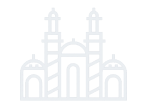
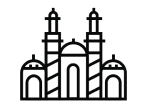
Changes Done

Changed region(s): [[0.1361, 0.0541, 0.8707, 0.9189]]

diff --git a/index.html b/index.html
@@ -24,7 +24,7 @@
    <section class="hero-banner">
     <div class="container">
         <div class="row">
-            <div class="col-lg-6">
+            <div class="col-lg-6 pad-top">
                 <h1>Rent a Car In Mumbai With Driver To Explore The City</h1>
                 <p>Choose from a wide choice of Rental cars at affordable rates. Book now to start exploring.</p>
                 <button><a href="">Book Now</a></button>
@@ -40,6 +40,23 @@
                             </div>
                             <div class="col-12">
                                 <input type="Number" placeholder="Number">
+                            </div>
+                            <div class="col-12">
+                                <input type="email" placeholder="Email">
+                            </div>
+                            <div class="col-12">
+                                <select class="form-select" aria-label="Default select example">
+                                    <option selected>Select Your City</option>
+                                    <option value="Goa">Goa</option>
+                                    <option value="Jaipur">Jaipur</option>
+                                    <option value="Mumbai">Mumbai</option>
+                                    <option value="Ahemdabad">Ahemdabad</option>
+                                    <option value="Pune">Pune</option>
+                                    <option value="Delhi">Delhi</option>
+                                  </select>
+                            </div>
+                            <div class="col-12">
+                                <textarea name="" id="" rows="7" placeholder="Enter Your Message"></textarea>
                             </div>
                             <div class="col-12">
                                 <button>Book Your Ride</button>
@@ -63,31 +80,102 @@
             </div>
             <div class="col-lg-2 col-6">
                 <div class="img-box">
-                    <img src="Images/gate-of-india.png" alt="">
+                    <svg xmlns="http://www.w3.org/2000/svg" width="83" height="83" viewBox="0 0 83 83" fill="none">
+                        <g clip-path="url(#clip0_1231_9805)">
+                          <path d="M50.8711 50.8708H53.5485V53.5483H50.8711V50.8708Z" fill="#333"/>
+                          <path d="M29.4512 50.8708H32.1286V53.5483H29.4512V50.8708Z" fill="#333"/>
+                          <path d="M83 34.8065V26.7742H64.2581V5.35484H61.5807V0H58.9032V5.35484H56.2258V16.0645H26.7742V5.35484H24.0968V0H21.4194V5.35484H18.7419V26.7742H0V34.8065H2.67742V38.8226H0V41.5H2.67742V45.5161H0V53.5484H2.67742V83H80.3226V53.5484H83V45.5161H80.3226V41.5H83V38.8226H80.3226V34.8065H83ZM80.3226 29.4516V32.129H64.2581V29.4516H80.3226ZM69.6129 56.2258V53.5484H72.2903V56.2258H69.6129ZM66.9355 56.2258H64.2581V53.5484H66.9355V56.2258ZM48.1936 80.3226H34.8065V67.8833C34.8065 63.0815 37.3538 58.7424 41.5 56.4023C45.6462 58.7424 48.1936 63.0815 48.1936 67.8833V80.3226ZM42.0981 53.6889L41.5 53.3902L40.9019 53.6902C35.4908 56.3945 32.129 61.8336 32.129 67.8833V80.3226H26.7742V48.1936H56.2258V80.3226H50.871V67.8833C50.871 61.8336 47.5092 56.3945 42.0981 53.6889ZM13.3871 53.5484V56.2258H10.7097V53.5484H13.3871ZM16.0645 53.5484H18.7419V56.2258H16.0645V53.5484ZM56.2258 45.5161H53.5484V40.1613H56.2258V45.5161ZM26.7742 40.1613H29.4516V45.5161H26.7742V40.1613ZM32.129 40.1613H34.8065V45.5161H32.129V40.1613ZM37.4839 40.1613H40.1613V45.5161H37.4839V40.1613ZM42.8387 40.1613H45.5161V45.5161H42.8387V40.1613ZM48.1936 40.1613H50.871V45.5161H48.1936V40.1613ZM56.2258 37.4839H26.7742V24.0968H56.2258V37.4839ZM24.0968 80.3226H21.4194V13.3871H24.0968V80.3226ZM61.5807 80.3226H58.9032V13.3871H61.5807V80.3226ZM61.5807 8.03226V10.7097H58.9032V8.03226H61.5807ZM56.2258 18.7419V21.4194H26.7742V18.7419H56.2258ZM24.0968 8.03226V10.7097H21.4194V8.03226H24.0968ZM2.67742 29.4516H18.7419V32.129H2.67742V29.4516ZM5.35484 34.8065H18.7419V45.5161H5.35484V34.8065ZM2.67742 48.1936H18.7419V50.871H2.67742V48.1936ZM8.03226 53.5484V56.2258H5.35484V53.5484H8.03226ZM5.35484 58.9032H18.7419V80.3226H16.0645V73.629C16.0645 71.4151 14.2624 69.6129 12.0484 69.6129C9.83442 69.6129 8.03226 71.4151 8.03226 73.629V80.3226H5.35484V58.9032ZM13.3871 80.3226H10.7097V73.629C10.7097 72.8917 11.3097 72.2903 12.0484 72.2903C12.787 72.2903 13.3871 72.8917 13.3871 73.629V80.3226ZM72.2903 80.3226H69.6129V73.629C69.6129 72.8917 70.213 72.2903 70.9516 72.2903C71.6903 72.2903 72.2903 72.8917 72.2903 73.629V80.3226ZM74.9678 80.3226V73.629C74.9678 71.4151 73.1656 69.6129 70.9516 69.6129C68.7376 69.6129 66.9355 71.4151 66.9355 73.629V80.3226H64.2581V58.9032H77.6452V80.3226H74.9678ZM77.6452 56.2258H74.9678V53.5484H77.6452V56.2258ZM80.3226 50.871H64.2581V48.1936H80.3226V50.871ZM77.6452 45.5161H64.2581V34.8065H77.6452V45.5161Z" fill="#333"/>
+                          <path d="M53.5479 34.8064V26.7742H29.4512V34.8064H53.5479ZM32.1286 29.4516H50.8705V32.129H32.1286V29.4516Z" fill="#333"/>
+                          <path d="M66.9355 38.8225H69.613V41.4999H66.9355V38.8225Z" fill="#333"/>
+                          <path d="M72.29 38.8225H74.9675V41.4999H72.29V38.8225Z" fill="#333"/>
+                          <path d="M8.03223 38.8225H10.7096V41.4999H8.03223V38.8225Z" fill="#333"/>
+                          <path d="M13.3867 38.8225H16.0641V41.4999H13.3867V38.8225Z" fill="#333"/>
+                        </g>
+                        <defs>
+                          <clipPath id="clip0_1231_9805">
+                            <rect width="83" height="83" fill="white"/>
+                          </clipPath>
+                        </defs>
+                      </svg>
                 </div>
                 <h3>Mumbai</h3>
             </div>
             <div class="col-lg-2 col-6">
                 <div class="img-box">
-                    <img src="Images/hawa-mahal.png" alt="">
+                    <svg xmlns="http://www.w3.org/2000/svg" width="76" height="76" viewBox="0 0 76 76" fill="none">
+                        <g clip-path="url(#clip0_1229_9904)">
+                          <path d="M74.8125 27.3125V24.9375C74.8125 24.6225 74.6874 24.3204 74.4647 24.0978L72.4375 22.0707V21.5678C72.4375 19.1058 71.0367 16.8983 68.875 15.8322V13.0625H66.5V15.8325C65.9169 16.1205 65.3846 16.4941 64.9191 16.9382C64.7073 16.7436 64.426 16.6268 64.1222 16.6251C64.0512 14.2412 62.6678 12.1202 60.5625 11.0822V8.3125H58.1875V11.082C56.0824 12.1202 54.6988 14.2411 54.6278 16.625H54.625V13.0625C54.625 12.4067 54.0933 11.875 53.4375 11.875H52.151C51.8774 10.2506 51.052 8.8111 49.875 7.75645V3.5625H47.5V6.34466C46.8454 6.11251 46.1471 5.97342 45.4211 5.94359C43.8722 4.00811 41.6308 2.75797 39.1875 2.44966V0H36.8125V2.44966C34.3692 2.75797 32.1278 4.00811 30.5789 5.94359C30.2765 5.95605 29.979 5.98752 29.6875 6.03666V3.5625H27.3125V6.89388C25.5115 7.93814 24.2073 9.74804 23.849 11.875H22.5625C21.9067 11.875 21.375 12.4067 21.375 13.0625V16.625H21.3722C21.3012 14.2411 19.9176 12.1202 17.8125 11.082V8.3125H15.4375V11.082C13.3324 12.1202 11.9488 14.2411 11.8778 16.625C11.574 16.6266 11.2927 16.7436 11.0809 16.9381C10.6154 16.4939 10.0831 16.1203 9.5 15.8323V13.0625H7.125V15.832C4.9633 16.8981 3.5625 19.1058 3.5625 21.5677V22.0706L1.53529 24.0978C1.31263 24.3204 1.1875 24.6225 1.1875 24.9375V27.3125C0.531703 27.3125 0 27.8442 0 28.5V74.8125C0 75.4683 0.531703 76 1.1875 76H74.8125C75.4683 76 76 75.4683 76 74.8125V28.5C76 27.8442 75.4683 27.3125 74.8125 27.3125ZM70.7582 23.75L72.4375 25.4293V27.3125H67.4736L66.7611 23.75H70.7582ZM67.6877 17.8979C69.0653 18.5149 69.9858 19.8551 70.0579 21.375H66.1286L65.7615 19.7205C66.1795 18.9118 66.8585 18.2698 67.6877 17.8979ZM59.375 13.1479C60.7526 13.7649 61.6733 15.1051 61.7454 16.625H57.0046C57.0767 15.105 57.9974 13.7648 59.375 13.1479ZM63.1627 19L65.0069 27.3125H54.6287L54.6254 19H63.1627ZM23.75 14.25H24.9375C25.5933 14.25 26.125 13.7183 26.125 13.0625C26.125 10.4433 28.2558 8.3125 30.875 8.3125C30.9552 8.3125 31.0347 8.31458 31.1138 8.31844C31.5249 8.33818 31.9132 8.14684 32.147 7.81078C33.4808 5.89416 35.6688 4.75 38 4.75C40.3312 4.75 42.5192 5.89416 43.853 7.81078C44.087 8.14684 44.4777 8.33773 44.8862 8.31844C44.9653 8.31458 45.0448 8.3125 45.125 8.3125C47.7442 8.3125 49.875 10.4433 49.875 13.0625C49.875 13.7183 50.4067 14.25 51.0625 14.25H52.25V17.8423C51.4578 16.949 50.4883 16.1978 49.3736 15.6404L49.2186 15.5629C48.8843 15.3958 48.4908 15.3958 48.1565 15.5629L48.0016 15.6404C46.8867 16.1979 45.9171 16.9493 45.1249 17.8426C45.1001 13.7168 42.6152 10.0672 38.7802 8.53308L38.4413 8.39741C38.1581 8.28415 37.8422 8.28415 37.559 8.39741L37.2203 8.53308C33.3851 10.0672 30.9002 13.7168 30.8754 17.8426C30.0832 16.9492 29.1136 16.1978 27.9987 15.6404L27.8438 15.5629C27.5095 15.3958 27.116 15.3958 26.7817 15.5629L26.6267 15.6404C25.512 16.1978 24.5424 16.949 23.7503 17.8423V14.25H23.75ZM52.25 24.1374V27.3125H45.125V24.1374C45.125 21.5644 46.4795 19.2374 48.6875 17.9666C50.8955 19.2374 52.25 21.5643 52.25 24.1374ZM42.75 17.9048V27.3125H33.25V17.9048C33.25 14.767 35.1105 11.9825 38 10.7798C40.8893 11.9825 42.75 14.767 42.75 17.9048ZM23.75 24.1374C23.75 21.5644 25.1045 19.2374 27.3125 17.9666C29.5205 19.2374 30.875 21.5643 30.875 24.1374V27.3125H23.75V24.1374ZM16.625 13.1479C18.0026 13.7649 18.9233 15.1051 18.9954 16.625H14.2546C14.3267 15.105 15.2474 13.7648 16.625 13.1479ZM12.8373 19H21.3746L21.3713 27.3125H10.9931L12.8373 19ZM8.31235 17.8979C9.14152 18.2698 9.82048 18.9118 10.2385 19.7205L9.87139 21.375H5.9421C6.01424 19.8551 6.9347 18.5149 8.31235 17.8979ZM3.5625 25.4293L5.24177 23.75H9.2389L8.5264 27.3125H3.5625V25.4293ZM2.375 34.4375H4.75V45.125H2.375V34.4375ZM2.375 47.5H32.1802C31.4895 48.1763 30.9129 48.9768 30.4873 49.875H2.375V47.5ZM7.125 45.125V34.4375H10.9918C10.0363 35.6689 9.5 37.1971 9.5 38.8026V45.125H7.125ZM19 40.375V38.8026C19 37.197 18.4637 35.6689 17.5082 34.4375H21.375V45.125H19V42.75H16.625V45.125H11.875V38.8026C11.875 37.2108 12.6657 35.7334 13.9902 34.8505L14.25 34.6772L14.5098 34.8505C15.8341 35.7334 16.625 37.2109 16.625 38.8026V40.375H19ZM23.75 45.125V34.4375H26.125V45.125H23.75ZM28.5 45.125V34.4375H34.7418C33.7863 35.6689 33.25 37.1971 33.25 38.8026V45.125H28.5ZM26.125 73.625H2.375V71.25H26.125V73.625ZM5.9375 68.875V61.3651C5.9375 59.7733 6.72823 58.2959 8.05273 57.413L8.3125 57.2397L8.57227 57.413C9.89677 58.2959 10.6875 59.7734 10.6875 61.3651V68.875H5.9375ZM17.8125 68.875V61.3651C17.8125 59.7733 18.6032 58.2959 19.9277 57.413L20.1875 57.2397L20.4473 57.413C21.7716 58.2959 22.5625 59.7734 22.5625 61.3651V68.875H17.8125ZM26.125 55.8125V68.875H24.9375V61.3651C24.9375 58.9775 23.7515 56.7612 21.7646 55.4368L20.8461 54.8245C20.4473 54.5585 19.9276 54.5585 19.5287 54.8245L18.6102 55.4368C16.6235 56.7613 15.4375 58.9775 15.4375 61.3651V68.875H13.0625V61.3651C13.0625 58.9775 11.8765 56.7612 9.88965 55.4368L8.97112 54.8245C8.57227 54.5585 8.05259 54.5585 7.65373 54.8245L6.7352 55.4368C4.74852 56.7613 3.5625 58.9775 3.5625 61.3651V68.875H2.375V52.25H27.3057C26.5599 53.2469 26.125 54.4834 26.125 55.8125ZM47.5 73.625H45.125V59.3796C45.125 56.7499 43.9473 54.2995 41.8938 52.6567L38.7417 50.1351C38.308 49.7882 37.6918 49.7882 37.2581 50.1351L34.106 52.6567C32.0527 54.2996 30.875 56.7499 30.875 59.3796V62.9375H33.25V59.3796C33.25 57.4753 34.1028 55.7009 35.5898 54.5114L38 52.5832L40.4102 54.5114C41.8972 55.701 42.75 57.4754 42.75 59.3796V73.625H33.25V65.3125H30.875V73.625H28.5V55.8125C28.5 54.0707 29.7435 52.5939 31.4569 52.3012C31.8854 52.2279 32.2397 51.9264 32.3805 51.5149C32.3868 51.4962 32.3934 51.4775 32.3999 51.4588C32.3999 51.4587 32.4 51.4584 32.4002 51.4582C33.2306 49.1094 35.4521 47.5251 37.9406 47.5003C37.9604 47.5001 37.9803 47.5 38 47.5C38.0199 47.5 38.0396 47.5001 38.0594 47.5003C40.5481 47.5251 42.7696 49.1094 43.5998 51.4582C43.5998 51.4584 43.6 51.4587 43.6 51.4588C43.6065 51.4775 43.613 51.4961 43.6194 51.5149C43.7601 51.9263 44.1143 52.2279 44.543 52.3012C46.2565 52.5939 47.5 54.0707 47.5 55.8125V73.625ZM35.625 45.125V38.8026C35.625 37.2108 36.4157 35.7334 37.7402 34.8505L38 34.6772L38.2598 34.8505C39.5841 35.7334 40.375 37.2109 40.375 38.8026V45.125H35.625ZM41.2582 34.4375H47.5V45.125H42.75V38.8026C42.75 37.1971 42.2137 35.6689 41.2582 34.4375ZM73.625 73.625H49.875V71.25H73.625V73.625ZM53.4375 68.875V61.3651C53.4375 59.7733 54.2282 58.2959 55.5527 57.413L55.8125 57.2397L56.0723 57.413C57.3966 58.2959 58.1875 59.7734 58.1875 61.3651V68.875H53.4375ZM65.3125 68.875V61.3651C65.3125 59.7733 66.1032 58.2959 67.4277 57.413L67.6875 57.2397L67.9473 57.413C69.2716 58.2959 70.0625 59.7734 70.0625 61.3651V68.875H65.3125ZM73.625 49.875H64.125V52.25H73.625V68.875H72.4375V61.3651C72.4375 58.9775 71.2515 56.7612 69.2646 55.4368L68.3461 54.8245C67.9473 54.5585 67.4276 54.5585 67.0287 54.8245L66.1102 55.4368C64.1235 56.7613 62.9375 58.9775 62.9375 61.3651V68.875H60.5625V61.3651C60.5625 58.9775 59.3765 56.7612 57.3896 55.4368L56.4711 54.8245C56.0723 54.5585 55.5526 54.5585 55.1537 54.8245L54.2352 55.4368C52.2485 56.7613 51.0625 58.9775 51.0625 61.3651V68.875H49.875V55.8125C49.875 54.4834 49.4401 53.2469 48.6943 52.25H61.75V49.875H45.5127C45.0873 48.9768 44.5105 48.1763 43.8199 47.5H73.625V49.875ZM49.875 45.125V34.4375H52.25V45.125H49.875ZM54.625 45.125V34.4375H58.4918C57.5363 35.6689 57 37.1971 57 38.8026V45.125H54.625ZM59.375 45.125V38.8026C59.375 37.2108 60.1657 35.7334 61.4902 34.8505L61.75 34.6772L62.0098 34.8505C63.3341 35.7334 64.125 37.2109 64.125 38.8026V45.125H59.375ZM65.0082 34.4375H68.875V45.125H66.5V38.8026C66.5 37.1971 65.9637 35.6689 65.0082 34.4375ZM73.625 45.125H71.25V34.4375H73.625V45.125ZM73.625 32.0625H2.375V29.6875H73.625V32.0625Z" fill="#333"/>
+                          <path d="M28.5 11.875H29.6875V14.25H28.5V11.875Z" fill="#333"/>
+                          <path d="M46.3125 11.875H47.5V14.25H46.3125V11.875Z" fill="#333"/>
+                          <path d="M15.4375 21.375H17.8125V24.9375H15.4375V21.375Z" fill="#333"/>
+                          <path d="M58.1875 21.375H60.5625V24.9375H58.1875V21.375Z" fill="#333"/>
+                        </g>
+                        <defs>
+                          <clipPath id="clip0_1229_9904">
+                            <rect width="76" height="76" fill="#333"/>
+                          </clipPath>
+                        </defs>
+                      </svg>
                 </div>
                 <h3>Jaipur</h3>
             </div>
             <div class="col-lg-2 col-6">
                 <div class="img-box">
-                    <img src="Images/India-gate.png" alt="">
+                    <svg xmlns="http://www.w3.org/2000/svg" width="85" height="86" viewBox="0 0 85 86" fill="none">
+                        <path d="M33.0858 16.3841C33.0858 14.2839 31.3971 12.5752 29.3212 12.5752C27.2454 12.5752 25.5566 14.2838 25.5566 16.3841C25.5566 18.4843 27.2454 20.1929 29.3212 20.1929C31.3971 20.1929 33.0858 18.4843 33.0858 16.3841ZM28.0469 16.3841C28.0469 15.6732 28.6185 15.0947 29.3212 15.0947C30.024 15.0947 30.5955 15.673 30.5955 16.3841C30.5955 17.0951 30.024 17.6734 29.3212 17.6734C28.6185 17.6734 28.0469 17.0951 28.0469 16.3841Z" fill="#333"/>
+                        <path d="M59.4432 16.3841C59.4432 14.2839 57.7545 12.5752 55.6786 12.5752C53.6028 12.5752 51.9141 14.2838 51.9141 16.3841C51.9141 18.4843 53.6028 20.1929 55.6786 20.1929C57.7545 20.1929 59.4432 18.4843 59.4432 16.3841ZM54.4043 16.3841C54.4043 15.6732 54.9759 15.0947 55.6786 15.0947C56.3814 15.0947 56.953 15.673 56.953 16.3841C56.953 17.0951 56.3814 17.6734 55.6786 17.6734C54.9759 17.6734 54.4043 17.0951 54.4043 16.3841Z" fill="#333"/>
+                        <path d="M47.371 17.6438C48.0588 17.6438 48.6162 17.0798 48.6162 16.384C48.6162 15.6883 48.0588 15.1243 47.371 15.1243H37.6289C36.9411 15.1243 36.3838 15.6883 36.3838 16.384C36.3838 17.0798 36.9411 17.6438 37.6289 17.6438H47.371Z" fill="#333"/>
+                        <path d="M61.081 44.3132C59.0051 44.3132 57.3164 46.0218 57.3164 48.1221C57.3164 50.2222 59.0051 51.9309 61.081 51.9309C63.1568 51.9309 64.8455 50.2224 64.8455 48.1221C64.8455 46.022 63.1568 44.3132 61.081 44.3132ZM61.081 49.4114C60.3784 49.4114 59.8066 48.8331 59.8066 48.1221C59.8066 47.4111 60.3782 46.8328 61.081 46.8328C61.7837 46.8328 62.3553 47.4111 62.3553 48.1221C62.3553 48.8331 61.7836 49.4114 61.081 49.4114Z" fill="#333"/>
+                        <path d="M20.6582 48.1223C20.6582 50.2224 22.3469 51.9312 24.4228 51.9312C26.4986 51.9312 28.1873 50.2226 28.1873 48.1223C28.1873 46.0221 26.4986 44.3135 24.4228 44.3135C22.3469 44.3135 20.6582 46.0221 20.6582 48.1223ZM25.6969 48.1223C25.6969 48.8332 25.1254 49.4117 24.4226 49.4117C23.7199 49.4117 23.1483 48.8333 23.1483 48.1223C23.1483 47.4113 23.7199 46.833 24.4226 46.833C25.1254 46.833 25.6969 47.4113 25.6969 48.1223Z" fill="#333"/>
+                        <path d="M76.0929 28.1598H72.4854V24.361C72.4854 23.2032 71.5545 22.2614 70.4102 22.2614H68.0521V10.0869C68.0521 8.92905 67.1212 7.98725 65.9769 7.98725H59.3867V4.95289C59.3867 3.83893 58.4909 2.93257 57.39 2.93257H50.6085C49.4817 2.93257 48.4466 2.53902 47.6936 1.82448C46.4719 0.664988 44.5786 0 42.4999 0C40.4213 0 38.528 0.664988 37.3063 1.82464C36.5536 2.53918 35.5183 2.93273 34.3916 2.93273H27.61C26.509 2.93273 25.6133 3.83909 25.6133 4.95306V7.98725H19.0232C17.8788 7.98725 16.948 8.92905 16.948 10.0869V13.4447C16.948 14.1404 17.5053 14.7045 18.1931 14.7045C18.8809 14.7045 19.4382 14.1404 19.4382 13.4447V10.5068H65.5617V22.2616H19.4382V19.3236C19.4382 18.6279 18.8809 18.0639 18.1931 18.0639C17.5053 18.0639 16.948 18.6279 16.948 19.3236V22.2616H14.5899C13.4455 22.2616 12.5147 23.2034 12.5147 24.3612V28.16H8.90718C7.94263 28.16 7.1582 28.9538 7.1582 29.9297V34.529C7.1582 35.5047 7.94279 36.2985 8.90718 36.2985H12.5147V60.6995H12.4207C11.7329 60.6995 11.1756 61.2636 11.1756 61.9593C11.1756 62.655 11.7329 63.2191 12.4207 63.2191H12.5147V72.6631H12.4207C11.7329 72.6631 11.1756 73.2271 11.1756 73.9229C11.1756 74.6186 11.7329 75.1826 12.4207 75.1826H12.5147V83.9004C12.5147 85.0582 13.4455 86 14.5899 86H34.5822C35.27 86 35.8273 85.436 35.8273 84.7402V75.1826H35.9212C36.609 75.1826 37.1664 74.6186 37.1664 73.9229C37.1664 73.2271 36.609 72.6631 35.9212 72.6631H35.8273V63.2191H35.9212C36.609 63.2191 37.1664 62.655 37.1664 61.9593C37.1664 61.2636 36.609 60.6995 35.9212 60.6995H35.8273V53.5889C35.8273 49.8662 38.8205 46.8377 42.4999 46.8377C46.1793 46.8377 49.1726 49.8664 49.1726 53.5889V60.6995H49.0785C48.3907 60.6995 47.8334 61.2636 47.8334 61.9593C47.8334 62.655 48.3907 63.2191 49.0785 63.2191H49.1726V72.6631H49.0785C48.3907 72.6631 47.8334 73.2271 47.8334 73.9229C47.8334 74.6186 48.3907 75.1826 49.0785 75.1826H49.1726V84.7402C49.1726 85.436 49.7299 86 50.4177 86H70.41C71.5543 86 72.4852 85.0582 72.4852 83.9004V75.1826H72.5791C73.267 75.1826 73.8243 74.6186 73.8243 73.9229C73.8243 73.2271 73.267 72.6631 72.5791 72.6631H72.4852V63.2191H72.5791C73.267 63.2191 73.8243 62.655 73.8243 61.9593C73.8243 61.2636 73.267 60.6995 72.5791 60.6995H72.4852V53.6109C72.4852 52.9152 71.9279 52.3512 71.2401 52.3512C70.5523 52.3512 69.9949 52.9152 69.9949 53.6109V60.6995H66.7598L65.0973 58.023V56.5086C65.0973 55.4495 64.2457 54.588 63.1989 54.588H58.4585C57.4118 54.588 56.5601 55.4495 56.5601 56.5086V58.023L54.8977 60.6995H51.6627V53.5889C51.6627 48.477 47.5521 44.3182 42.4998 44.3182C37.4474 44.3182 33.3369 48.4771 33.3369 53.5889V60.6995H30.1019L28.4394 58.023V56.5086C28.4394 55.4495 27.5878 54.588 26.541 54.588H21.8006C20.7539 54.588 19.9022 55.4495 19.9022 56.5086V58.023L18.2397 60.6995H15.0049V41.7863H20.5806C21.7302 41.7863 22.6656 40.8399 22.6656 39.6767V36.2984H24.9697V39.6767C24.9697 40.8399 25.905 41.7863 27.0548 41.7863H33.0356C34.1852 41.7863 35.1205 40.8399 35.1205 39.6767V36.2984H37.4247V39.6767C37.4247 40.8399 38.36 41.7863 39.5098 41.7863H45.4905C46.6402 41.7863 47.5755 40.8399 47.5755 39.6767V36.2984H49.8798V39.6767C49.8798 40.8399 50.8152 41.7863 51.9648 41.7863H57.9455C59.0954 41.7863 60.0307 40.8399 60.0307 39.6767V36.2984H62.3348V39.6767C62.3348 40.8399 63.2702 41.7863 64.4198 41.7863H69.9954V47.732C69.9954 48.4277 70.5528 48.9918 71.2406 48.9918C71.9284 48.9918 72.4857 48.4277 72.4857 47.732V36.2984H76.0932C77.0578 36.2984 77.8422 35.5046 77.8422 34.5288V29.9295C77.8418 28.9536 77.0573 28.1598 76.0929 28.1598ZM28.1036 5.4521H34.3916C36.1537 5.4521 37.7939 4.81634 39.01 3.66205C39.7527 2.95726 41.09 2.51953 42.4999 2.51953C43.9099 2.51953 45.2472 2.95726 45.9898 3.66205C47.2058 4.8165 48.8461 5.4521 50.6081 5.4521H56.8962V7.98708H28.1036V5.4521ZM51.6628 75.1826H54.3408V83.4805H51.6628V75.1826ZM64.8267 72.6631H56.8311V63.2191H64.8267V72.6631ZM64.8267 75.1826V83.4805H56.8311V75.1826H64.8267ZM69.9949 83.4805H67.317V75.1826H69.9949V83.4805ZM69.9949 72.6631H67.317V63.2191H69.9949V72.6631ZM58.8598 59.0561C58.9845 58.8554 59.0505 58.6229 59.0505 58.3858V57.1074H62.6071V58.3858C62.6071 58.6229 62.6732 58.8552 62.798 59.0561L63.8187 60.6994H57.839L58.8598 59.0561ZM54.3408 63.2191V72.6631H51.6628V63.2191H54.3408ZM15.0049 75.1826H17.6829V83.4805H15.0049V75.1826ZM20.1732 63.2191H28.1688V72.6631H20.1732V63.2191ZM28.1688 75.1826V83.4805H20.1732V75.1826H28.1688ZM33.337 83.4805H30.659V75.1826H33.337V83.4805ZM33.337 72.6631H30.659V63.2191H33.337V72.6631ZM22.2017 59.0561C22.3266 58.8554 22.3926 58.6229 22.3926 58.3858V57.1074H25.9492V58.3858C25.9492 58.6229 26.0153 58.8552 26.1399 59.0561L27.1606 60.6994H21.1809L22.2017 59.0561ZM17.6829 63.2191V72.6631H15.0049V63.2191H17.6829ZM20.1752 39.2667H15.0049V36.2985H20.1753L20.1752 39.2667ZM32.6301 39.2667H27.4598V36.2985H32.6301V39.2667ZM45.085 39.2667H39.9146V36.2985H45.085V39.2667ZM57.5401 39.2667H52.3697V36.2985H57.5401V39.2667ZM69.9949 39.2667H64.8246V36.2985H69.9949V39.2667ZM75.3516 33.779H9.64827V30.6795H54.1355C54.8233 30.6795 55.3806 30.1155 55.3806 29.4197C55.3806 28.724 54.8233 28.16 54.1355 28.16H15.0049V24.7811H69.9949V28.16H59.946C59.2582 28.16 58.7009 28.724 58.7009 29.4197C58.7009 30.1155 59.2582 30.6795 59.946 30.6795H75.3516V33.779Z" fill="#333"/>
+                      </svg>
                 </div>
                 <h3>Delhi</h3>
             </div>
             <div class="col-lg-2 col-6">
                 <div class="img-box">
-                    <img src="Images/pune.png" alt="">
+                    <svg xmlns="http://www.w3.org/2000/svg"  viewBox="0 0 114 114" fill="#000">
+                        <path d="M36.9248 21.9563H77.1098V28.0211H36.9248V21.9563Z" stroke="white" stroke-width="2" stroke-miterlimit="10"/>
+                        <path d="M39.7295 28.021H75.1607V44.3344H39.7295V28.021Z" stroke="white" stroke-width="2" stroke-miterlimit="10"/>
+                        <path d="M39.7295 37.9734H75.1607" stroke="white" stroke-width="2" stroke-miterlimit="10"/>
+                        <path d="M47.9941 28.021V38.4406" stroke="white" stroke-width="2" stroke-miterlimit="10"/>
+                        <path d="M66.3252 28.021V37.9732" stroke="white" stroke-width="2" stroke-miterlimit="10"/>
+                        <path d="M18.8896 41.8835H39.6718V48.3017H18.8896V41.8835Z" stroke="white" stroke-width="2" stroke-miterlimit="10"/>
+                        <path d="M45.8282 92.0436H13.9082V55.8486V48.3018H45.8282V92.0436Z" stroke="white" stroke-width="2" stroke-miterlimit="10"/>
+                        <path d="M45.8282 55.9966H13.9082" stroke="white" stroke-width="2" stroke-miterlimit="10"/>
+                        <path d="M22.458 59.9868V70.1784" stroke="white" stroke-width="2" stroke-miterlimit="10"/>
+                        <path d="M29.8682 59.9868V70.1784" stroke="white" stroke-width="2" stroke-miterlimit="10"/>
+                        <path d="M38.1328 59.9868V70.1784" stroke="white" stroke-width="2" stroke-miterlimit="10"/>
+                        <path d="M19.665 48.3018V55.9968" stroke="white" stroke-width="2" stroke-miterlimit="10"/>
+                        <path d="M26.6992 48.3018V55.9968" stroke="white" stroke-width="2" stroke-miterlimit="10"/>
+                        <path d="M33.7217 48.3018V55.9968" stroke="white" stroke-width="2" stroke-miterlimit="10"/>
+                        <path d="M40.7549 48.3018V55.9968" stroke="white" stroke-width="2" stroke-miterlimit="10"/>
+                        <path d="M75.2178 41.8835H97.824V48.3017H75.2178V41.8835Z" stroke="white" stroke-width="2" stroke-miterlimit="10"/>
+                        <path d="M100.092 92.0436H68.1719V55.8486V48.3018H100.092V92.0436Z" stroke="white" stroke-width="2" stroke-miterlimit="10"/>
+                        <path d="M100.092 55.9966H68.1719" stroke="white" stroke-width="2" stroke-miterlimit="10"/>
+                        <path d="M76.7227 59.9868V70.1784" stroke="white" stroke-width="2" stroke-miterlimit="10"/>
+                        <path d="M84.1318 59.9868V70.1784" stroke="white" stroke-width="2" stroke-miterlimit="10"/>
+                        <path d="M92.3975 59.9868V70.1784" stroke="white" stroke-width="2" stroke-miterlimit="10"/>
+                        <path d="M73.9297 48.3018V55.9968" stroke="white" stroke-width="2" stroke-miterlimit="10"/>
+                        <path d="M80.9629 48.3018V55.9968" stroke="white" stroke-width="2" stroke-miterlimit="10"/>
+                        <path d="M87.9854 48.3018V55.9968" stroke="white" stroke-width="2" stroke-miterlimit="10"/>
+                        <path d="M95.0195 48.3018V55.9968" stroke="white" stroke-width="2" stroke-miterlimit="10"/>
+                        <path d="M45.8281 51.2202H68.1721" stroke="white" stroke-width="2" stroke-miterlimit="10"/>
+                        <path d="M64.5359 92.0436V66.6786C64.5359 65.6965 64.3425 64.7241 63.9666 63.8167C63.5908 62.9094 63.04 62.085 62.3455 61.3906C61.6511 60.6961 60.8267 60.1453 59.9194 59.7695C59.012 59.3936 58.0396 59.2002 57.0575 59.2002C56.0754 59.2002 55.103 59.3936 54.1956 59.7695C53.2883 60.1453 52.4639 60.6961 51.7695 61.3906C51.075 62.085 50.5242 62.9094 50.1484 63.8167C49.7725 64.7241 49.5791 65.6965 49.5791 66.6786V92.0436H64.5359Z" stroke="white" stroke-width="2" stroke-miterlimit="10"/>
+                        <path d="M43.5479 92.0435H76.7219" stroke="white" stroke-width="2" stroke-miterlimit="10"/>
+                      </svg>
                 </div>
                 <h3>Pune</h3>
             </div>
             <div class="col-lg-2 col-6">
                 <div class="img-box">
-                    <img src="Images/" alt="">
+                    <svg xmlns="http://www.w3.org/2000/svg" width="105" height="105" viewBox="0 0 105 105" fill="none">
+                        <path d="M77.6998 30.5427C80.4015 30.5427 82.5998 28.3443 82.5998 25.6427C82.5998 22.941 80.4015 20.7427 77.6998 20.7427C74.9982 20.7427 72.7998 22.941 72.7998 25.6427C72.7998 28.3443 74.9982 30.5427 77.6998 30.5427ZM77.6998 23.5427C78.858 23.5427 79.7998 24.4845 79.7998 25.6427C79.7998 26.8008 78.858 27.7427 77.6998 27.7427C76.5417 27.7427 75.5998 26.8008 75.5998 25.6427C75.5998 24.4845 76.5417 23.5427 77.6998 23.5427Z" fill="#333"/>
+                        <path d="M37.0998 23.0278C37.9751 23.0278 38.6849 22.318 38.6849 21.4427C38.6849 20.567 37.9751 19.8572 37.0998 19.8572C36.2244 19.8572 35.5146 20.567 35.5146 21.4427C35.5146 22.318 36.2244 23.0278 37.0998 23.0278Z" fill="#333"/>
+                        <path d="M81.7148 41.0428C81.7148 41.9181 82.4246 42.6279 83.3 42.6279C84.1753 42.6279 84.8851 41.9181 84.8851 41.0428C84.8851 40.1671 84.1753 39.4573 83.3 39.4573C82.4246 39.4573 81.7148 40.1671 81.7148 41.0428Z" fill="#333"/>
+                        <path d="M21.4103 34.3325C21.6836 34.6059 22.042 34.7427 22.4001 34.7427C22.7581 34.7427 23.1165 34.6059 23.3899 34.3325L24.5001 33.2223L25.6103 34.3325C25.8836 34.6059 26.242 34.7427 26.6001 34.7427C26.9581 34.7427 27.3165 34.6059 27.5899 34.3325C28.1366 33.7858 28.1366 32.8996 27.5899 32.3529L26.4797 31.2427L27.5899 30.1325C28.1366 29.5858 28.1366 28.6996 27.5899 28.1529C27.0432 27.6062 26.157 27.6062 25.6103 28.1529L24.5001 29.2631L23.3899 28.1529C22.8432 27.6062 21.957 27.6062 21.4103 28.1529C20.8636 28.6996 20.8636 29.5858 21.4103 30.1325L22.5205 31.2427L21.4103 32.3529C20.8632 32.8996 20.8632 33.7855 21.4103 34.3325Z" fill="#333"/>
+                        <path d="M93.5428 66.1709C94.1472 65.9693 94.5396 65.3848 94.4972 64.7485C94.4535 64.1129 93.9873 63.5858 93.3611 63.4675C93.1529 63.4273 89.4509 62.7598 85.6461 63.8837C82.9444 53.272 71.3115 45.1454 70.7928 44.7887C70.3633 44.4933 69.8072 44.4618 69.3476 44.7033C68.8884 44.9459 68.5997 45.4226 68.5997 45.9427V46.2275C64.2485 38.5513 56.518 33.1802 56.09 32.8873C55.755 32.6577 55.3382 32.5859 54.9483 32.6871C54.5573 32.7889 54.2276 33.0549 54.0474 33.4165L52.4997 36.5116L50.952 33.4161C50.7714 33.0546 50.442 32.7886 50.0511 32.6867C49.6601 32.587 49.2443 32.6573 48.9094 32.8869C48.481 33.1799 40.7505 38.551 36.3997 46.2272V45.9423C36.3997 45.4222 36.1113 44.9455 35.6517 44.703C35.1911 44.4622 34.636 44.4944 34.2066 44.7884C33.6882 45.145 22.0549 53.2717 19.3533 63.8833C15.5477 62.7591 11.8458 63.4259 11.6382 63.4668C11.0121 63.5851 10.5459 64.1122 10.5021 64.7478C10.4598 65.3841 10.8521 65.9686 11.4566 66.1702C13.6168 66.8902 14.6374 69.4494 15.0878 71.142H12.5997C11.8258 71.142 11.1997 71.7688 11.1997 72.542V83.742C11.1997 84.5151 11.8258 85.142 12.5997 85.142H92.3997C93.1735 85.142 93.7997 84.5151 93.7997 83.742V72.542C93.7997 71.7688 93.1735 71.142 92.3997 71.142H89.9175C90.3742 69.4483 91.4011 66.8846 93.5428 66.1709ZM45.3793 71.1427L52.4997 64.0223L59.6201 71.1427H45.3793ZM33.5997 71.1427H23.8511C24.038 68.4176 24.7272 66.3431 25.2105 65.1906C29.3276 66.8209 32.0527 69.33 33.5997 71.1119V71.1427ZM37.1718 71.1427C36.9782 70.8557 36.7238 70.4976 36.3997 70.0839V69.8197C36.4494 69.323 37.4402 60.341 42.2664 52.7236C40.5174 57.3677 38.667 64.1329 39.0954 71.1427H37.1718ZM58.415 50.1076C60.1258 53.8418 63.3346 62.0808 62.9559 70.5193L54.6221 62.1858C54.8482 58.7915 56.8985 53.5681 58.415 50.1076ZM46.4951 49.9036C48.019 53.3581 50.147 58.7215 50.3773 62.1855L41.8712 70.6912C41.4316 62.0248 44.8025 53.5513 46.4951 49.9036ZM62.2906 52.0463C67.4993 59.7957 68.5482 69.308 68.5997 69.8197V70.0839C68.2756 70.4976 68.0211 70.8557 67.8276 71.1427H65.7192C66.1689 63.7871 64.1067 56.6929 62.2906 52.0463ZM71.3997 71.0986C72.9397 69.3209 75.6553 66.8233 79.7888 65.1906C80.2732 66.3442 80.9617 68.4186 81.1482 71.1427H71.3997V71.0986ZM83.041 64.9855C82.9504 65.0369 82.8587 65.0835 82.7687 65.1377C82.2455 63.653 81.7443 62.7948 81.7002 62.722C81.3638 62.1603 80.6817 61.9093 80.0569 62.1144C76.2671 63.3779 73.4262 65.305 71.4 67.1142V48.7864C74.8794 51.6491 81.4216 57.8451 83.041 64.9855ZM55.804 36.1644C59.0814 38.7236 67.5122 46.0543 68.5997 54.4554V58.213C66.8661 53.67 64.099 48.6405 59.7104 44.8794C59.3835 44.5997 58.9502 44.48 58.5221 44.5703C58.0997 44.655 57.7402 44.9305 57.5474 45.3162C57.4147 45.5811 55.4869 49.4672 53.8997 53.817V39.9724L55.804 36.1644ZM49.1953 36.1644L51.0997 39.9727V53.8173C49.5124 49.4675 47.5846 45.5815 47.452 45.3165C47.2591 44.9308 46.8997 44.6554 46.4772 44.5707C46.0492 44.4832 45.6159 44.5993 45.289 44.8797C40.9003 48.6408 38.1332 53.67 36.3997 58.2133V54.4557C37.4871 46.0543 45.9176 38.7239 49.1953 36.1644ZM33.5997 48.7892V67.1142C31.5735 65.305 28.7326 63.3779 24.9428 62.1144C24.3222 61.9086 23.6373 62.1589 23.2995 62.722C23.2558 62.7948 22.7542 63.6534 22.231 65.1377C22.141 65.0835 22.0493 65.0369 21.9587 64.9855C23.5771 57.8584 30.12 51.6564 33.5997 48.7892ZM15.7784 66.0785C17.5767 66.2091 19.7246 66.6826 21.4526 67.9874C21.2622 68.9321 21.1148 69.9873 21.0459 71.1427H17.9697C17.6845 69.8494 17.0664 67.7907 15.7784 66.0785ZM46.1997 73.9427V76.7427H13.9997V73.9427H46.1997ZM13.9997 82.3427V79.5427H47.5997C48.3735 79.5427 48.9997 78.9158 48.9997 78.1427V73.9427H55.9997V78.1427C55.9997 78.9158 56.6258 79.5427 57.3997 79.5427H90.9997V82.3427H13.9997ZM90.9997 76.7427H58.7997V73.9427H90.9997V76.7427ZM83.9535 71.1427C83.8845 69.987 83.7372 68.9321 83.5468 67.9874C85.2747 66.6823 87.4227 66.2091 89.221 66.0785C87.933 67.7907 87.3149 69.8494 87.0296 71.1427H83.9535Z" fill="#333"/>
+                      </svg>
                 </div>
                 <h3>Goa</h3>
             </div>

diff --git a/CSS/style.scss b/CSS/style.scss
@@ -63,10 +63,19 @@ header {
     background-size: cover;
 
     .col-lg-6 {
-        min-height: 600px;
+        @media (min-width:991px) {
+            min-height: 600px;    
+        }
         display: flex;
         justify-content: center;
         flex-direction: column;
+    }
+
+    .pad-top{
+        @media (max-width:991px) {
+            padding-top: 130px;
+            padding-bottom: 50px;
+        }
     }
 
     h1 {
@@ -125,6 +134,14 @@ header {
             margin-bottom: 10px;
             padding: 5px;
         }
+        select{
+            width: 100%;
+            margin-bottom: 10px;
+        }
+        textarea{
+            width: 100%;
+            padding: 5px;
+        }
         button{
             color: #fff;
         }
@@ -140,7 +157,7 @@ header {
         flex-direction: column;
     }
     .img-box{
-        background-color: #000;
+        background-color: #edf1f7;
         padding: 20px;
         border-radius: 30px;
         width: 120px;
@@ -148,6 +165,11 @@ header {
         img{
             width: 80px;
             height: 80px;
+        }
+        svg{
+            fill: #333 !important;
+            width: 85px;
+            height: 85px;
         }
     }
     h3{

diff --git a/CSS/style.css b/CSS/style.css
@@ -60,10 +60,20 @@ header .d-flex button a {
   background-size: cover;
 }
 .hero-banner .col-lg-6 {
-  min-height: 600px;
   display: flex;
   justify-content: center;
   flex-direction: column;
+}
+@media (min-width: 991px) {
+  .hero-banner .col-lg-6 {
+    min-height: 600px;
+  }
+}
+@media (max-width: 991px) {
+  .hero-banner .pad-top {
+    padding-top: 130px;
+    padding-bottom: 50px;
+  }
 }
 .hero-banner h1 {
   font-size: 34px;
@@ -117,6 +127,14 @@ header .d-flex button a {
   margin-bottom: 10px;
   padding: 5px;
 }
+.hero-banner .form-box select {
+  width: 100%;
+  margin-bottom: 10px;
+}
+.hero-banner .form-box textarea {
+  width: 100%;
+  padding: 5px;
+}
 .hero-banner .form-box button {
   color: #fff;
 }
@@ -131,7 +149,7 @@ header .d-flex button a {
   flex-direction: column;
 }
 .locations .img-box {
-  background-color: #000;
+  background-color: #edf1f7;
   padding: 20px;
   border-radius: 30px;
   width: 120px;
@@ -140,6 +158,11 @@ header .d-flex button a {
 .locations .img-box img {
   width: 80px;
   height: 80px;
+}
+.locations .img-box svg {
+  fill: #333 !important;
+  width: 85px;
+  height: 85px;
 }
 .locations h3 {
   text-align: center;
